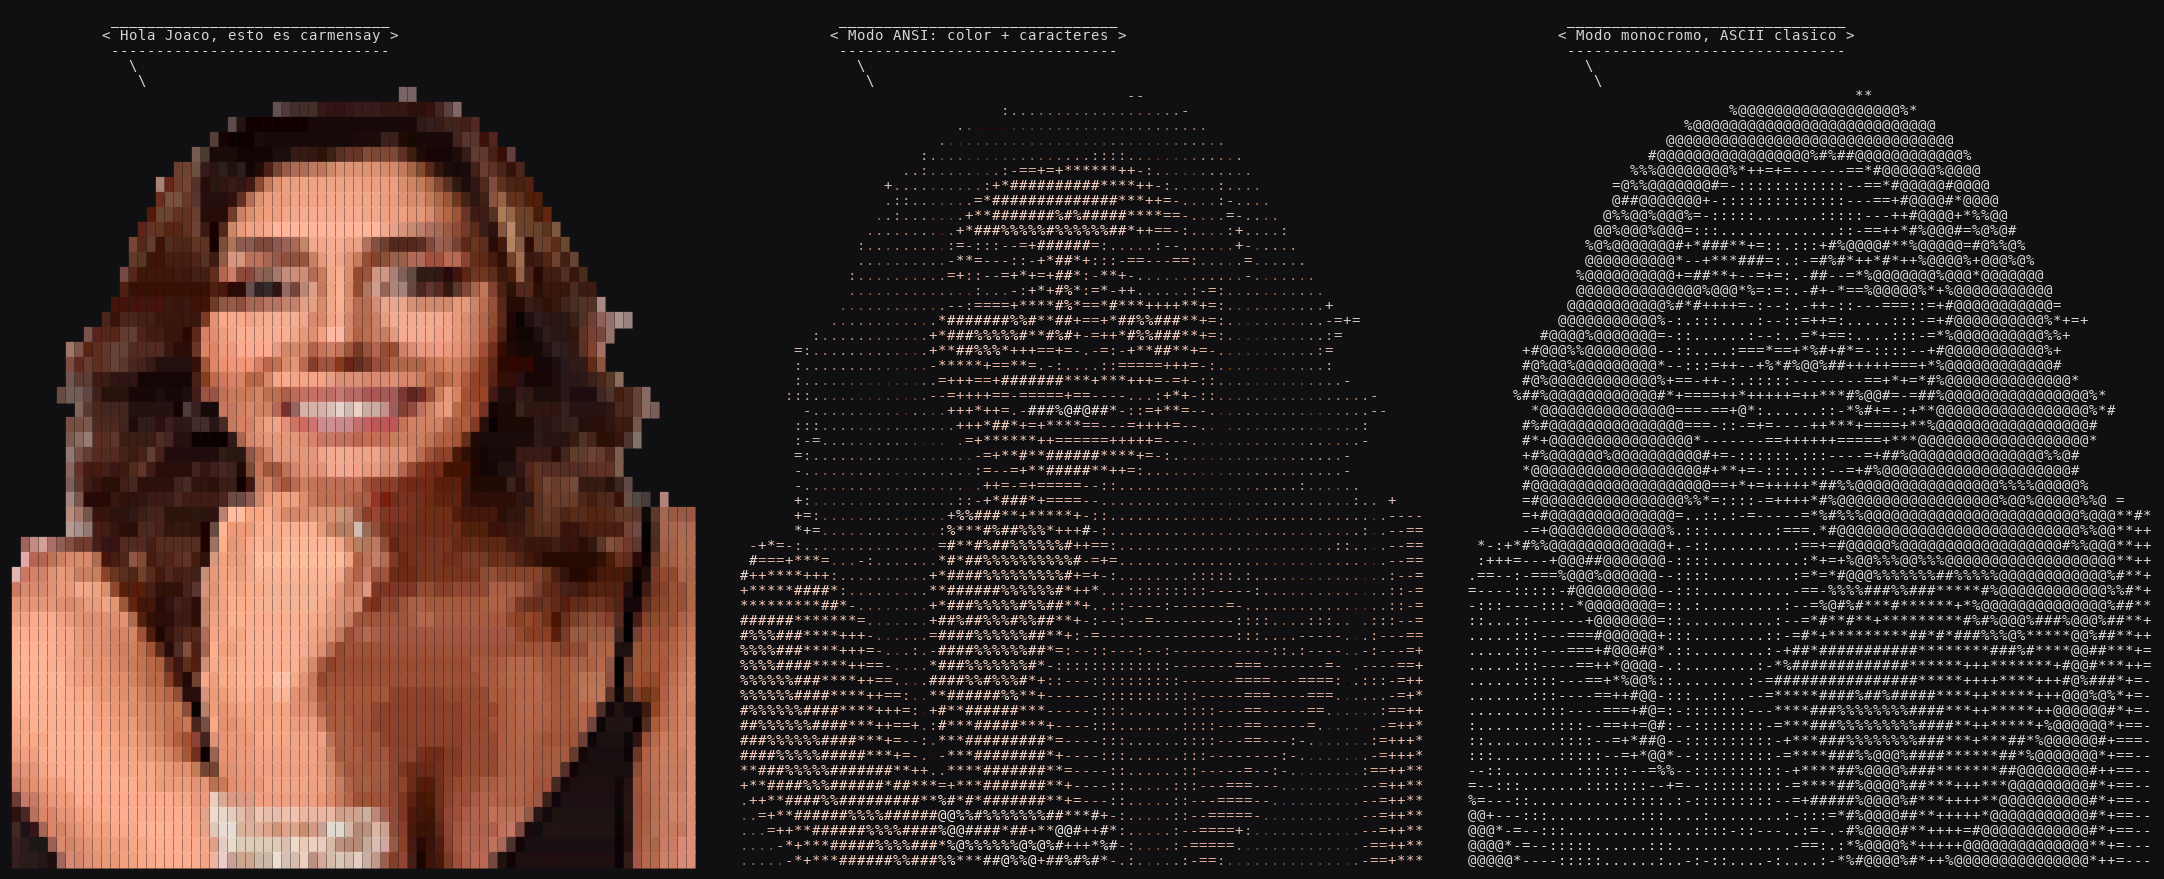
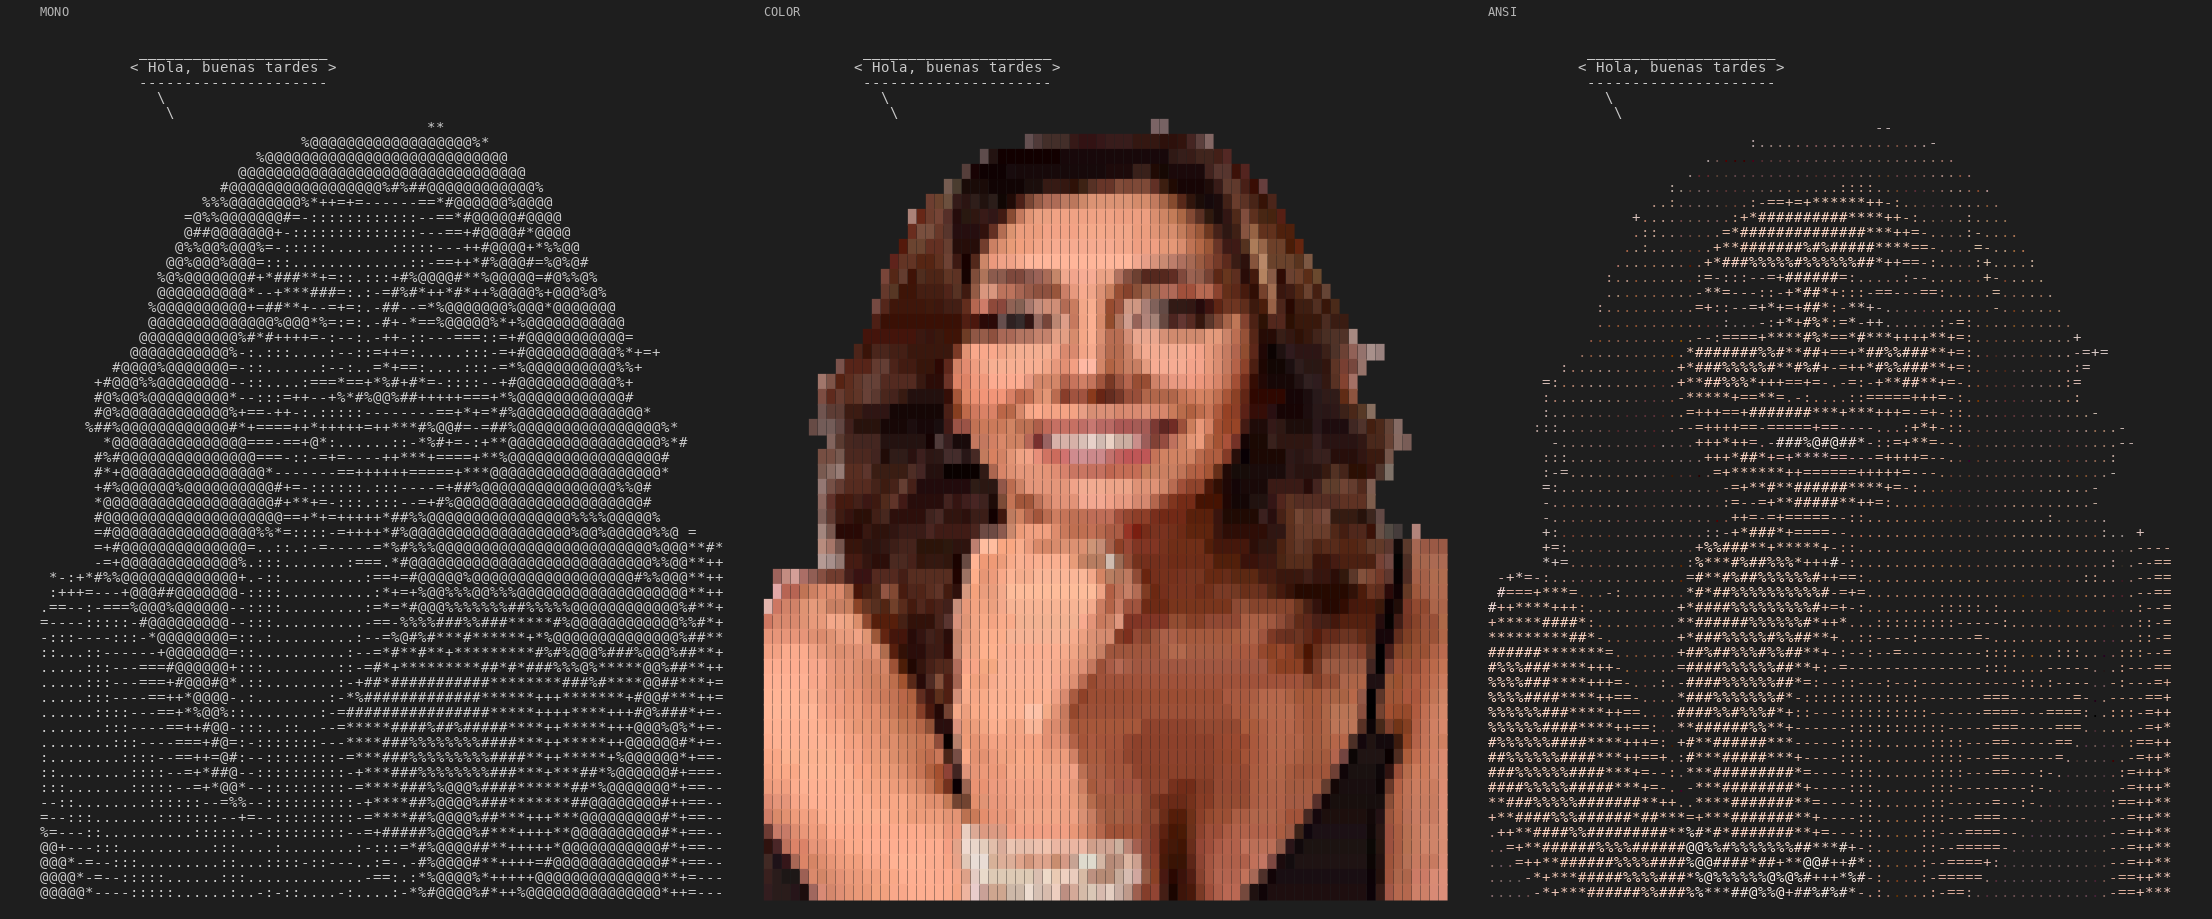
chore: regenerar preview con los tres modos lado a lado

diff --git a/generar_preview.py b/generar_preview.py
@@ -1,0 +1,135 @@
+#!/usr/bin/env python3
+"""Genera carmensay-preview.png con los tres modos lado a lado."""
+import re
+import subprocess
+
+from PIL import Image, ImageDraw, ImageFont
+
+SAMPLE_TEXT = "Hola, buenas tardes"
+MODES = [
+    ("-n", "mono"),
+    ("-c", "color"),
+    ("-a", "ansi"),
+]
+
+FONT_SIZE = 14
+PADDING = 20
+BG = (30, 30, 30)
+LABEL_COLOR = (180, 180, 180)
+
+FONT_PATHS = [
+    "/usr/share/fonts/TTF/DejaVuSansMono.ttf",
+    "/usr/share/fonts/truetype/dejavu/DejaVuSansMono.ttf",
+    "/usr/share/fonts/dejavu/DejaVuSansMono.ttf",
+    "/usr/share/fonts/TTF/FiraMono-Regular.ttf",
+]
+
+
+def find_font():
+    for path in FONT_PATHS:
+        try:
+            return ImageFont.truetype(path, FONT_SIZE)
+        except OSError:
+            continue
+    return ImageFont.load_default()
+
+
+def parse_ansi(text):
+    """Devuelve lista de (char, rgb) donde rgb es None para default."""
+    result = []
+    current_color = None
+    i = 0
+    while i < len(text):
+        if text[i] == "\x1b" and i + 1 < len(text) and text[i + 1] == "[":
+            match = re.match(r"\x1b\[(38;2;(\d+);(\d+);(\d+)m|0m)", text[i:])
+            if match:
+                seq = match.group()
+                if seq == "\x1b[0m":
+                    current_color = None
+                else:
+                    current_color = (int(match.group(2)), int(match.group(3)), int(match.group(4)))
+                i += len(seq)
+                continue
+        if text[i] == "\n":
+            result.append(("\n", current_color))
+        else:
+            result.append((text[i], current_color))
+        i += 1
+    return result
+
+
+def render_to_image(text, font):
+    parsed = parse_ansi(text)
+    lines = []
+    current_line = []
+    for char, color in parsed:
+        if char == "\n":
+            lines.append(current_line)
+            current_line = []
+        else:
+            current_line.append((char, color))
+    if current_line:
+        lines.append(current_line)
+
+    if not lines:
+        lines = [[]]
+
+    char_w = font.getbbox("X")[2]
+    line_h = font.getbbox("X")[3] + 2
+
+    max_cols = max(len(l) for l in lines)
+    width = max_cols * char_w + PADDING * 2
+    height = len(lines) * line_h + PADDING * 2
+
+    img = Image.new("RGB", (width, height), BG)
+    draw = ImageDraw.Draw(img)
+
+    y = PADDING
+    for line in lines:
+        x = PADDING
+        for char, color in line:
+            draw.text((x, y), char, fill=color or (200, 200, 200), font=font)
+            x += char_w
+        y += line_h
+
+    return img
+
+
+def label_image(img, text):
+    label_font = ImageFont.truetype(find_font().path, FONT_SIZE - 2)
+    lw = label_font.getbbox(text)[2]
+    labeled = Image.new("RGB", (img.width, img.height + 24), BG)
+    labeled.paste(img, (0, 24))
+    draw = ImageDraw.Draw(labeled)
+    draw.text((PADDING, 4), text, fill=LABEL_COLOR, font=label_font)
+    return labeled
+
+
+def main():
+    font = find_font()
+    images = []
+
+    for flag, label in MODES:
+        result = subprocess.run(
+            ["python3", "carmensay.py", flag, SAMPLE_TEXT],
+            capture_output=True, text=True,
+        )
+        img = render_to_image(result.stdout, font)
+        img = label_image(img, label.upper())
+        images.append(img)
+
+    total_w = sum(im.width for im in images) + PADDING * 2
+    max_h = max(im.height for im in images)
+
+    composite = Image.new("RGB", (total_w, max_h), BG)
+    x = PADDING
+    for im in images:
+        composite.paste(im, (x, 0))
+        x += im.width
+
+    composite.save("carmensay-preview.png")
+    print("Preview guardado en carmensay-preview.png")
+
+
+if __name__ == "__main__":
+    main()
